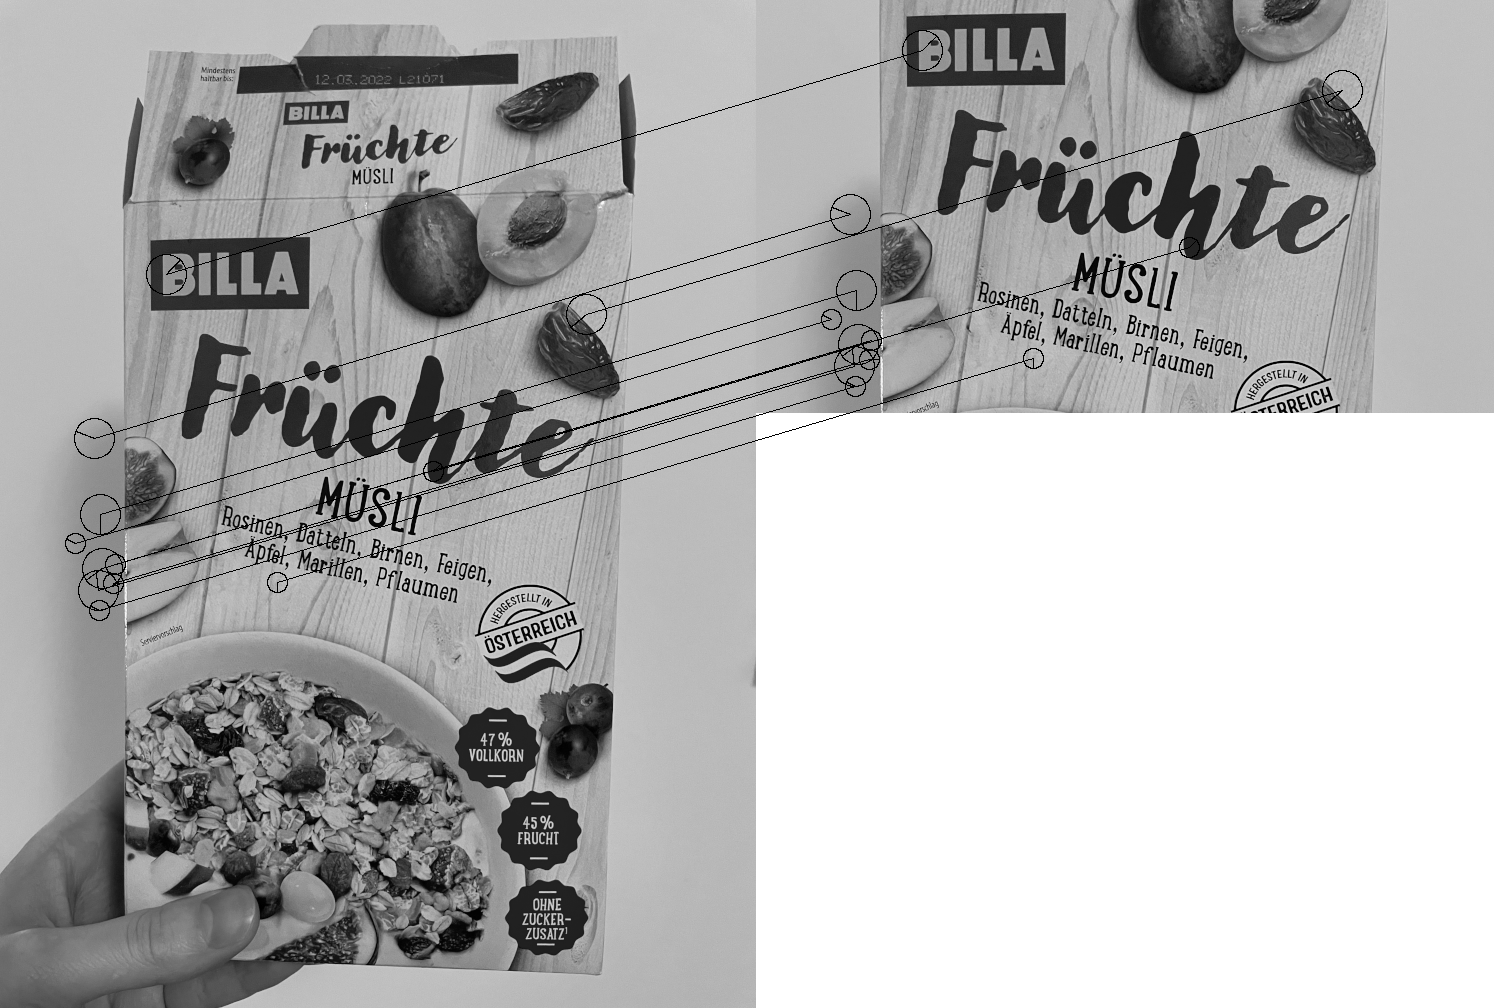
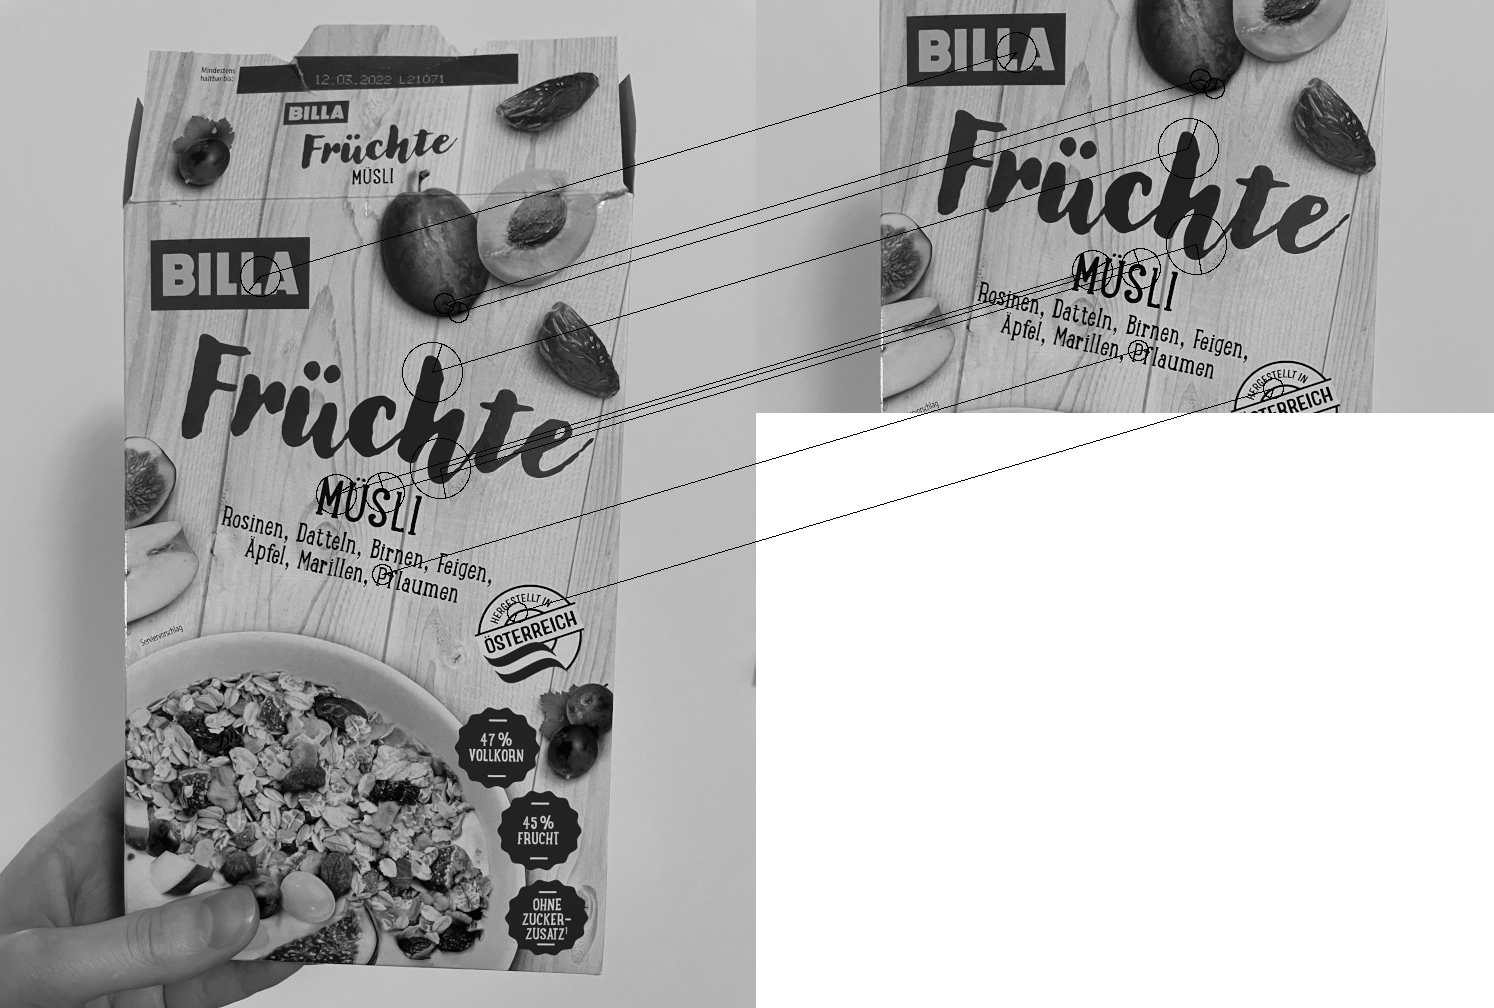
switchin back to normalization

diff --git a/src/pyramid/gd/gd_octave.rs b/src/pyramid/gd/gd_octave.rs
@@ -27,8 +27,8 @@ impl GDOctave {
         let sigmas = vec!(sigma);
         let kernels: Vec<GaussKernel1D> = sigmas.iter().map(|&sigma| GaussKernel1D::new(mean, sigma,step,blur_radius)).collect();
         let gray_images: Vec<Image> = match runtime_parameters.use_blur {
-            false => vec!(base_gray_image.standardize().normalize()),
-            _ => kernels.iter().map(|kernel| gaussian_2_d_convolution(&base_gray_image.standardize(), kernel, runtime_parameters.normalize_gray)).collect() //TODO make this a parameter
+            false => vec!(base_gray_image.normalize()),
+            _ => kernels.iter().map(|kernel| gaussian_2_d_convolution(&base_gray_image.normalize(), kernel, runtime_parameters.normalize_gray)).collect() //TODO make this a parameter
         };
         let images_borrows: Vec<&Image> = gray_images.iter().map(|x| x).collect();
 

diff --git a/src/pyramid/orb/mod.rs b/src/pyramid/orb/mod.rs
@@ -25,9 +25,7 @@ pub fn build_orb_pyramid(base_gray_image: Image, runtime_parameters: &OrbRuntime
             sigma *= 2.0;
         }
 
-        //TODO: investigate not using z-standardizing improves results
-        //let new_octave = OrbOctave::build_octave(&octave_image.standardize(),sigma, runtime_parameters);
-        let new_octave = OrbOctave::build_octave(&octave_image,sigma, runtime_parameters);
+        let new_octave = OrbOctave::build_octave(&octave_image.normalize(),sigma, runtime_parameters);
 
         octaves.push(new_octave);
     }

diff --git a/examples/image_processing/orb_pyramid_match.rs b/examples/image_processing/orb_pyramid_match.rs
@@ -17,11 +17,11 @@ fn main() {
     //let image_name = "lenna";
     //let image_name_2 = "lenna_90";
 
-    //let image_name = "cereal_1_scaled_25";
-    //let image_name_2 = "cereal_1_scaled_25_cropped";
-
     let image_name = "cereal_1_scaled_25";
-    let image_name_2 = "cereal_2_scaled_25";
+    let image_name_2 = "cereal_1_scaled_25_cropped";
+
+    //let image_name = "cereal_1_scaled_25";
+    //let image_name_2 = "cereal_2_scaled_25";
     
     //let image_name = "board_1_scaled_25";
     //let image_name_2 = "board_2_scaled_25";

diff --git a/src/image/mod.rs b/src/image/mod.rs
@@ -79,7 +79,13 @@ impl Image {
         Image{ buffer: self.buffer.normalize(), original_encoding:  self.original_encoding}
     }
 
-    pub fn standardize(&self) -> Image {
+    pub fn center(&self) -> Image {
+        let mean = self.buffer.mean();
+        Image{ buffer: (self.buffer.add_scalar(-mean)), original_encoding:  self.original_encoding}
+
+    }
+
+    pub fn z_standardize(&self) -> Image {
         let mean = self.buffer.mean();
         let variance = self.buffer.variance();
         let std_dev = variance.sqrt();
